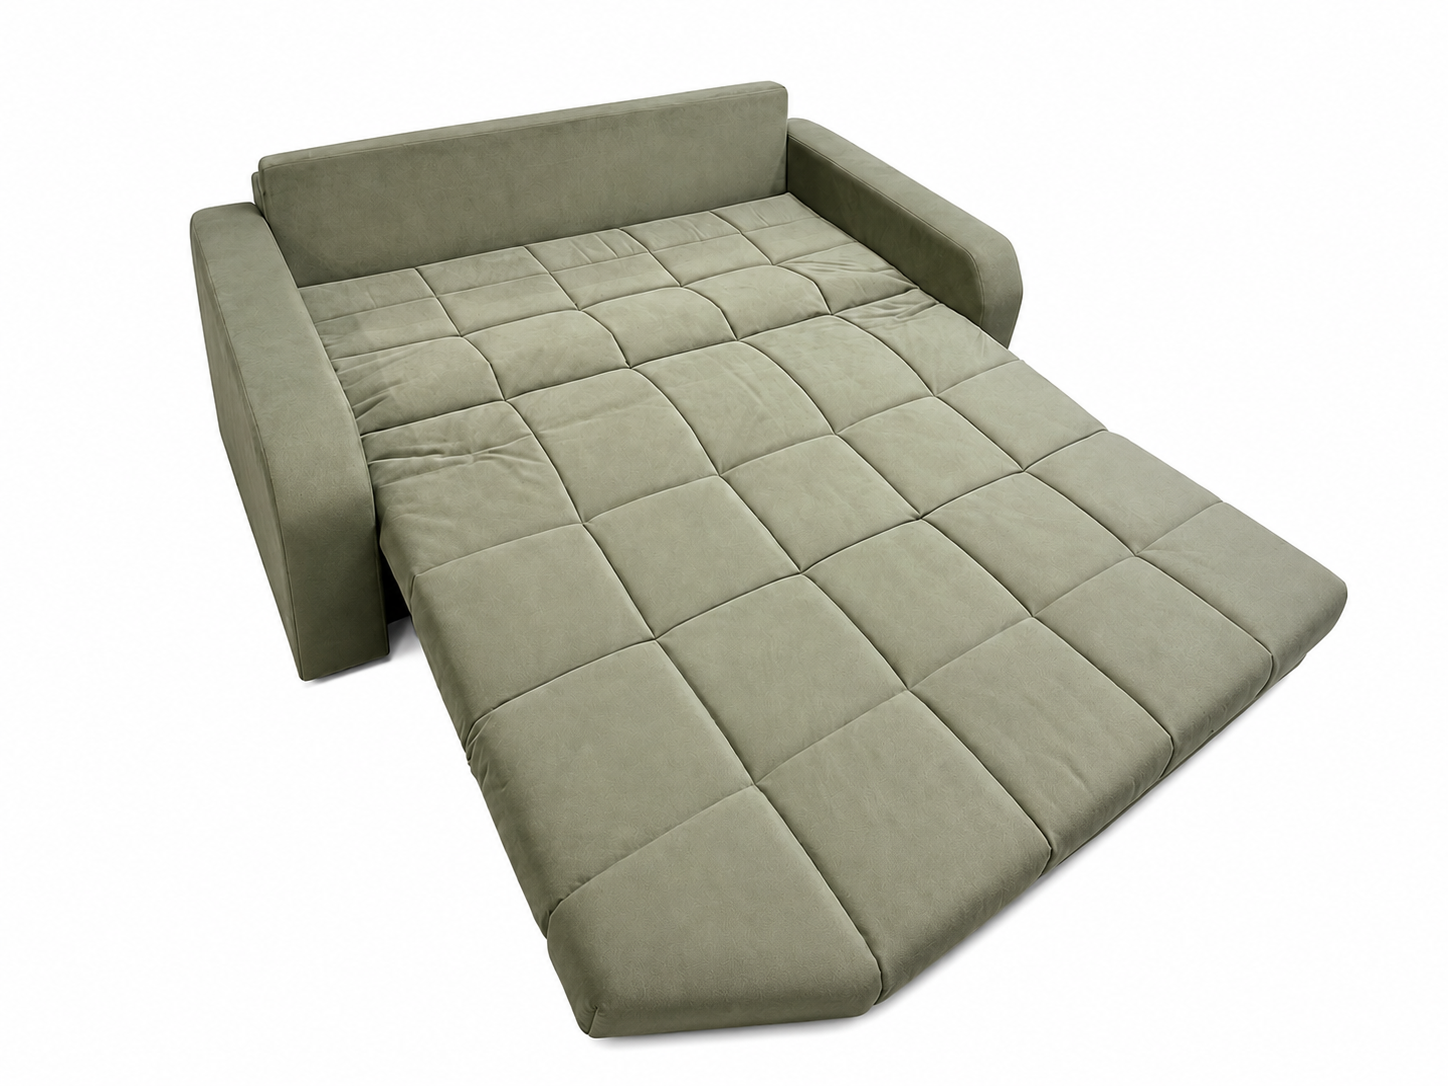
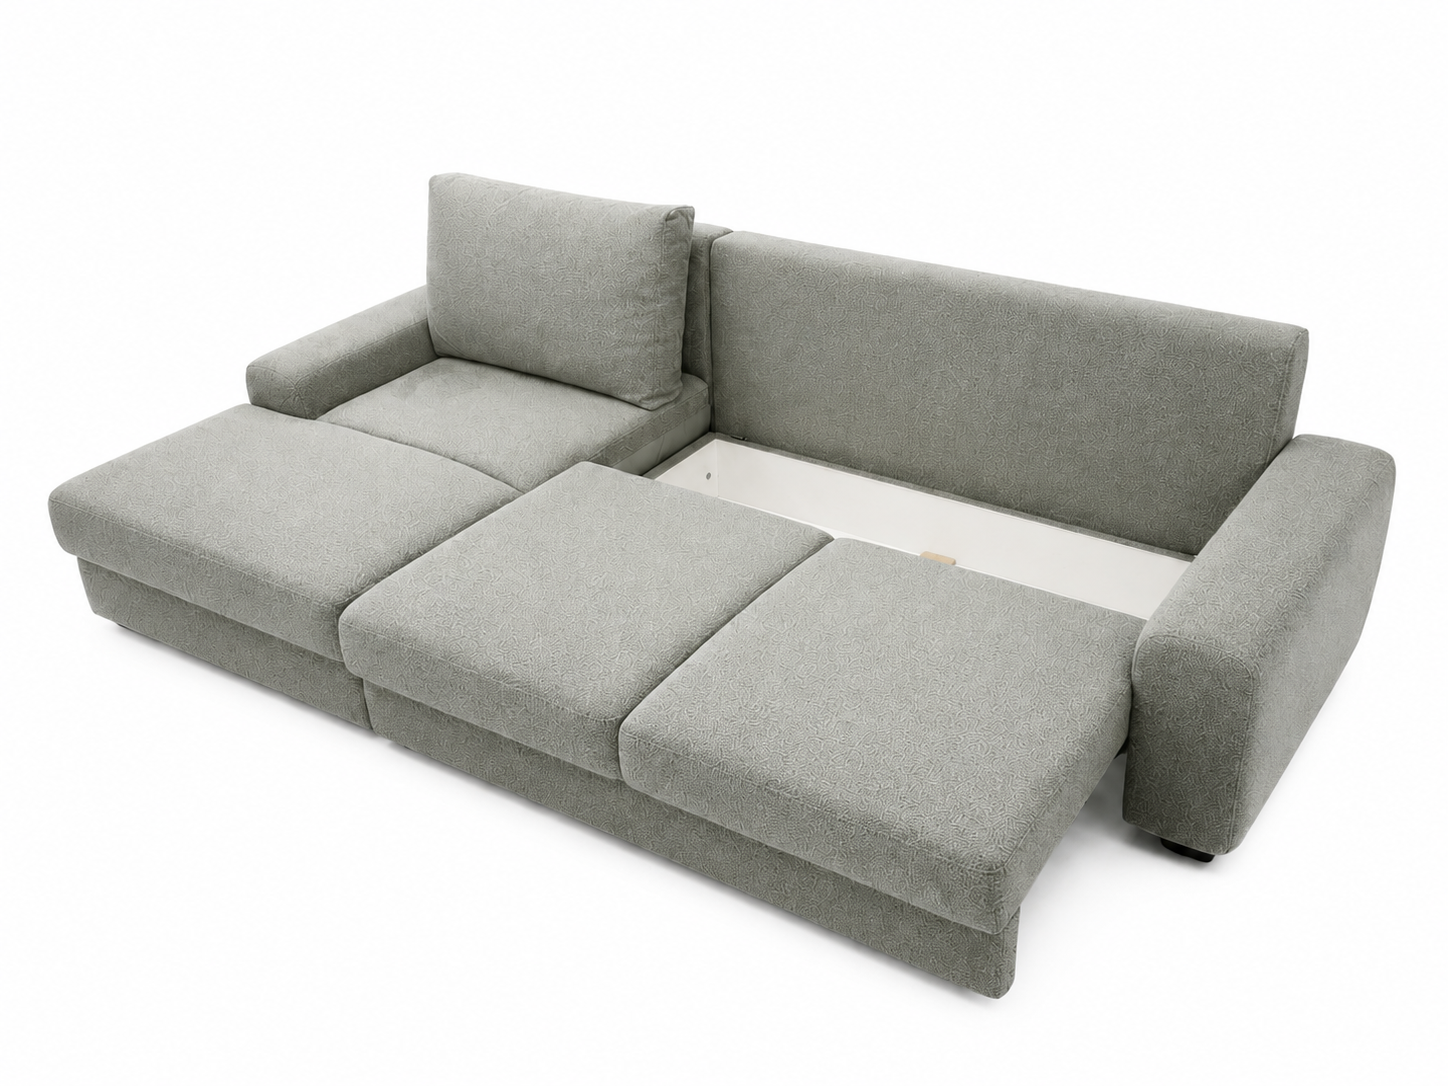
Add sofa interiors and clean product galleries

diff --git a/public/js/app.js b/public/js/app.js
@@ -44,6 +44,33 @@
     "sona-mark-compact": "assets/фотографии диванов/марк маленький бф.png"
   };
   const SOFA_LAYOUTS_DIR = "assets/sofa-layouts";
+  const SOFA_INTERIORS_DIR = "assets/sofa-interiors";
+  const SOFA_INTERIOR_BY_ID = {
+    "sona-alaska-md": "аляска мд.png",
+    "sona-alaska": "аляска.png",
+    "sona-andreas": "андреас.png",
+    "sona-boston": "бостон.png",
+    "sona-broadway-2": "бродвей 2.png",
+    "sona-valencia": "валенсия.png",
+    "sona-victoria": "виктория.png",
+    "sona-hudson": "гудзон.png",
+    "sona-dublin": "дублин.png",
+    "sona-infinity": "инфинити.png",
+    "sona-kansas-8-md": "канзас 8 мд.png",
+    "sona-malta-k": "мальта к.png",
+    "sona-mark-large": "марк большой.png",
+    "sona-milan": "милан.png",
+    "sona-montana": "монтана.png",
+    "sona-naples-md-white": "неаполь мд белый.png",
+    "sona-naples-md": "неаполь мд.png",
+    "sona-nice": "ницца.png",
+    "sona-numo": "нумо.png",
+    "sona-paula": "паула.png",
+    "sona-rhine": "рейн.png",
+    "sona-seattle-m": "сиэтл м.png",
+    "sona-thomas": "томас.png",
+    "sona-charlie": "чарли.png"
+  };
   const SOFA_LAYOUTS_BY_ID = {
     "sona-alaska-md": ["аляска мд.png", "аляска мд 1.png"],
     "sona-alaska": ["аляска.png"],
@@ -56,7 +83,7 @@
     "sona-infinity": ["инфинити.png"],
     "sona-malta-k": ["мальта к.png", "мальта к 1.png"],
     "sona-mark-compact": ["марк (3).png"],
-    "sona-mark-large": ["марк большой.png", "марк большой 1.png"],
+    "sona-mark-large": ["марк большой 1.png"],
     "sona-milan": ["милан (4).png"],
     "sona-naples-md": ["неаполь мд.png", "неаполь мд 1.png", "неаполь мд 2.png"],
     "sona-naples-md-white": ["неаполь мд белый.png", "неаполь мд белый 1.png"],
@@ -103,7 +130,19 @@
       alt: `${product.name}: вариант раскладки ${index + 1}`,
       main: false
     }));
+    const interiorFileName = SOFA_INTERIOR_BY_ID[product.id] || "";
+    const interiorImages = interiorFileName ? [{
+      id: "interior",
+      src: `${SOFA_INTERIORS_DIR}/${interiorFileName}`,
+      alt: `${product.name} в интерьере`,
+      main: false
+    }] : [];
     const galleryMainImage = image || (layoutImages.length ? "assets/source/диван в категории-no-bg-preview (carve.photos).png" : "");
+    const galleryImages = [
+      ...(galleryMainImage ? [{ id: "main", src: galleryMainImage, alt: product.name, main: true }] : []),
+      ...layoutImages,
+      ...interiorImages
+    ];
 
     return {
       brand: "SONA",
@@ -124,12 +163,7 @@
       ].filter(Boolean),
       ...product,
       image,
-      ...(galleryMainImage ? {
-        gallery: [
-          { id: "main", src: galleryMainImage, alt: product.name, main: true },
-          ...layoutImages
-        ]
-      } : {})
+      ...(galleryImages.length ? { gallery: galleryImages } : {})
     };
   });
 
@@ -1263,7 +1297,6 @@
     const number = createElement("span", "lookbook-number", String(index + 1).padStart(2, "0"));
     const collection = createElement("span", "", product.marketSection || product.category || "SONA");
     const favorite = createElement("button", "lookbook-favorite");
-    const share = createProductShareButton(product, "lookbook-share");
     const title = createElement("h3", "", product.name);
     const price = createElement("div", "lookbook-price");
     const meta = createElement("div", "lookbook-meta");
@@ -1307,7 +1340,7 @@
     cart.addEventListener("click", () => toggleCart(product.id, cart));
     actions.append(details, cart);
     copy.append(top, title, price, meta, actions);
-    card.append(media, favorite, share, copy);
+    card.append(media, favorite, copy);
     return card;
   }
 
@@ -1662,7 +1695,6 @@
     const placeholder = createProductPlaceholder(product);
     const tagWrap = createElement("div", "product-tags");
     const favoriteButton = createElement("button", "favorite-button");
-    const shareButton = createProductShareButton(product);
     const body = createElement("div", "product-body");
     const topLine = createElement("div", "product-top-line");
     const brand = createElement("span", "product-brand", productCategoryLabel(product));
@@ -1734,7 +1766,7 @@
     topLine.append(brand, rating);
     titleRow.append(title);
     footer.append(price, serviceNote, delivery, addButton);
-    media.append(placeholder, tagWrap, favoriteButton, shareButton);
+    media.append(placeholder, tagWrap, favoriteButton);
     body.append(topLine, titleRow, meta, swatches, footer);
     card.append(media, body);
 

diff --git a/public/mobile/modules/100-visual-polish.css b/public/mobile/modules/100-visual-polish.css
@@ -3817,71 +3817,8 @@
   }
 }
 
-/* Share controls on every mobile product surface. */
+/* Share controls are only shown inside the opened product gallery. */
 @media (max-width: 760px) {
-  body :is(#productGrid, .category-product-grid) .product-share-button {
-    position: absolute !important;
-    top: 8px !important;
-    right: 8px !important;
-    width: 32px !important;
-    min-width: 32px !important;
-    height: 32px !important;
-    min-height: 32px !important;
-    display: grid !important;
-    place-items: center !important;
-    padding: 0 !important;
-    border: 1px solid rgba(200, 216, 231, 0.82) !important;
-    border-radius: 50% !important;
-  }
-
-  body :is(#productGrid, .category-product-grid) .favorite-button {
-    right: 44px !important;
-  }
-
-  body :is(#productGrid, .category-product-grid) .product-cart-button {
-    right: 80px !important;
-  }
-
-  body .home-picks-group .product-share-button {
-    position: absolute !important;
-    top: 10px !important;
-    right: 10px !important;
-    width: 38px !important;
-    min-width: 38px !important;
-    height: 38px !important;
-    min-height: 38px !important;
-    border-radius: 50% !important;
-    z-index: 11 !important;
-  }
-
-  body .home-picks-group .favorite-button {
-    right: 54px !important;
-  }
-
-  body .home-picks-group .product-body {
-    grid-template-rows: 34px 40px 18px minmax(0, 1fr) !important;
-  }
-
-  body .home-picks-group .product-top-line {
-    padding-right: 86px !important;
-  }
-
-  body .home-picks-group .product-title-row {
-    padding-right: 0 !important;
-  }
-
-  body .favorites-hits-grid .product-share-button {
-    right: 10px !important;
-  }
-
-  body .favorites-hits-grid .favorite-button {
-    right: 52px !important;
-  }
-
-  body .favorites-hits-grid .product-cart-button {
-    right: 94px !important;
-  }
-
   body .detail-favorite-button {
     right: 64px !important;
   }
@@ -4105,28 +4042,5 @@
     border-radius: 999px !important;
     font-size: 11.5px !important;
     box-shadow: 0 8px 18px rgba(16, 40, 68, 0.17) !important;
-  }
-}
-
-/* Keep share and favorite controls separated after the editorial card layout. */
-@media (max-width: 760px) {
-  body .home-picks-group .product-share-button {
-    right: 10px !important;
-  }
-
-  body .home-picks-group .favorite-button {
-    right: 54px !important;
-  }
-
-  body .home-picks-group .product-body {
-    grid-template-rows: 34px 40px 18px minmax(0, 1fr) !important;
-  }
-
-  body .home-picks-group .product-top-line {
-    padding-right: 86px !important;
-  }
-
-  body .home-picks-group .product-title-row {
-    padding-right: 0 !important;
   }
 }

diff --git a/public/index.html b/public/index.html
@@ -8,7 +8,7 @@
     <title>Soна - товары и услуги для дома</title>
     <link rel="icon" type="image/png" href="assets/sona-logo.png">
     <link rel="apple-touch-icon" href="assets/sona-logo.png">
-    <link rel="stylesheet" href="css/custom.css?v=20260621-3">
+    <link rel="stylesheet" href="css/custom.css?v=20260621-4">
     <link rel="stylesheet" href="css/cart.css?v=20260620-3">
     <link rel="stylesheet" href="orders/Orders.css?v=20260614-2">
     <link rel="stylesheet" href="reviews/Reviews.css?v=20260614-2">
@@ -17,7 +17,7 @@
     <link rel="stylesheet" href="admin/products/ProductsPage.css?v=20260614-2">
     <link rel="stylesheet" href="profile/Profile.css?v=20260620-6">
     <link rel="stylesheet" href="css/desktop-refresh.css?v=20260620-2" media="(min-width: 761px)">
-    <link rel="stylesheet" href="mobile/mobile.css?v=20260621-4" media="(max-width: 760px)">
+    <link rel="stylesheet" href="mobile/mobile.css?v=20260621-5" media="(max-width: 760px)">
   </head>
   <body>
     <div class="top-promo">
@@ -684,7 +684,7 @@
     <script src="admin/Admin.js?v=20260621-2" defer></script>
     <script src="profile/Profile.js?v=20260621-2" defer></script>
     <script src="js/optimization.js?v=20260614-2" defer></script>
-    <script src="js/app.js?v=20260621-4" defer></script>
+    <script src="js/app.js?v=20260621-5" defer></script>
     <script src="mobile/mobile.js?v=20260620-4" defer></script>
   </body>
 </html>

diff --git a/public/css/custom.css b/public/css/custom.css
@@ -1315,17 +1315,6 @@ img {
   display: block;
 }
 
-.product-card .favorite-button {
-  right: 56px;
-}
-
-:is(#productGrid, .category-product-grid) .product-cart-button {
-  right: 100px;
-}
-
-:is(#productGrid, .category-product-grid) .product-tags {
-  max-width: calc(100% - 154px);
-}
 
 .product-body {
   display: grid;
@@ -1783,15 +1772,6 @@ img {
   backdrop-filter: blur(10px);
 }
 
-.lookbook-share {
-  right: 12px;
-  top: 12px;
-  z-index: 3;
-}
-
-.lookbook-favorite {
-  right: 56px;
-}
 
 .detail-info {
   display: grid;
@@ -8002,29 +7982,4 @@ img {
     transform: none !important;
     will-change: auto;
   }
-}
-
-/* Final product-card control positions after compact catalog overrides. */
-.product-card .product-share-button {
-  right: 12px;
-}
-
-.product-card .favorite-button {
-  right: 56px;
-}
-
-:is(#productGrid, .category-product-grid) .product-cart-button {
-  right: 100px;
-}
-
-:is(#productGrid, .category-product-grid) .product-tags {
-  max-width: calc(100% - 154px);
-}
-
-.lookbook-share {
-  right: 12px;
-}
-
-.lookbook-favorite {
-  right: 56px;
 }
